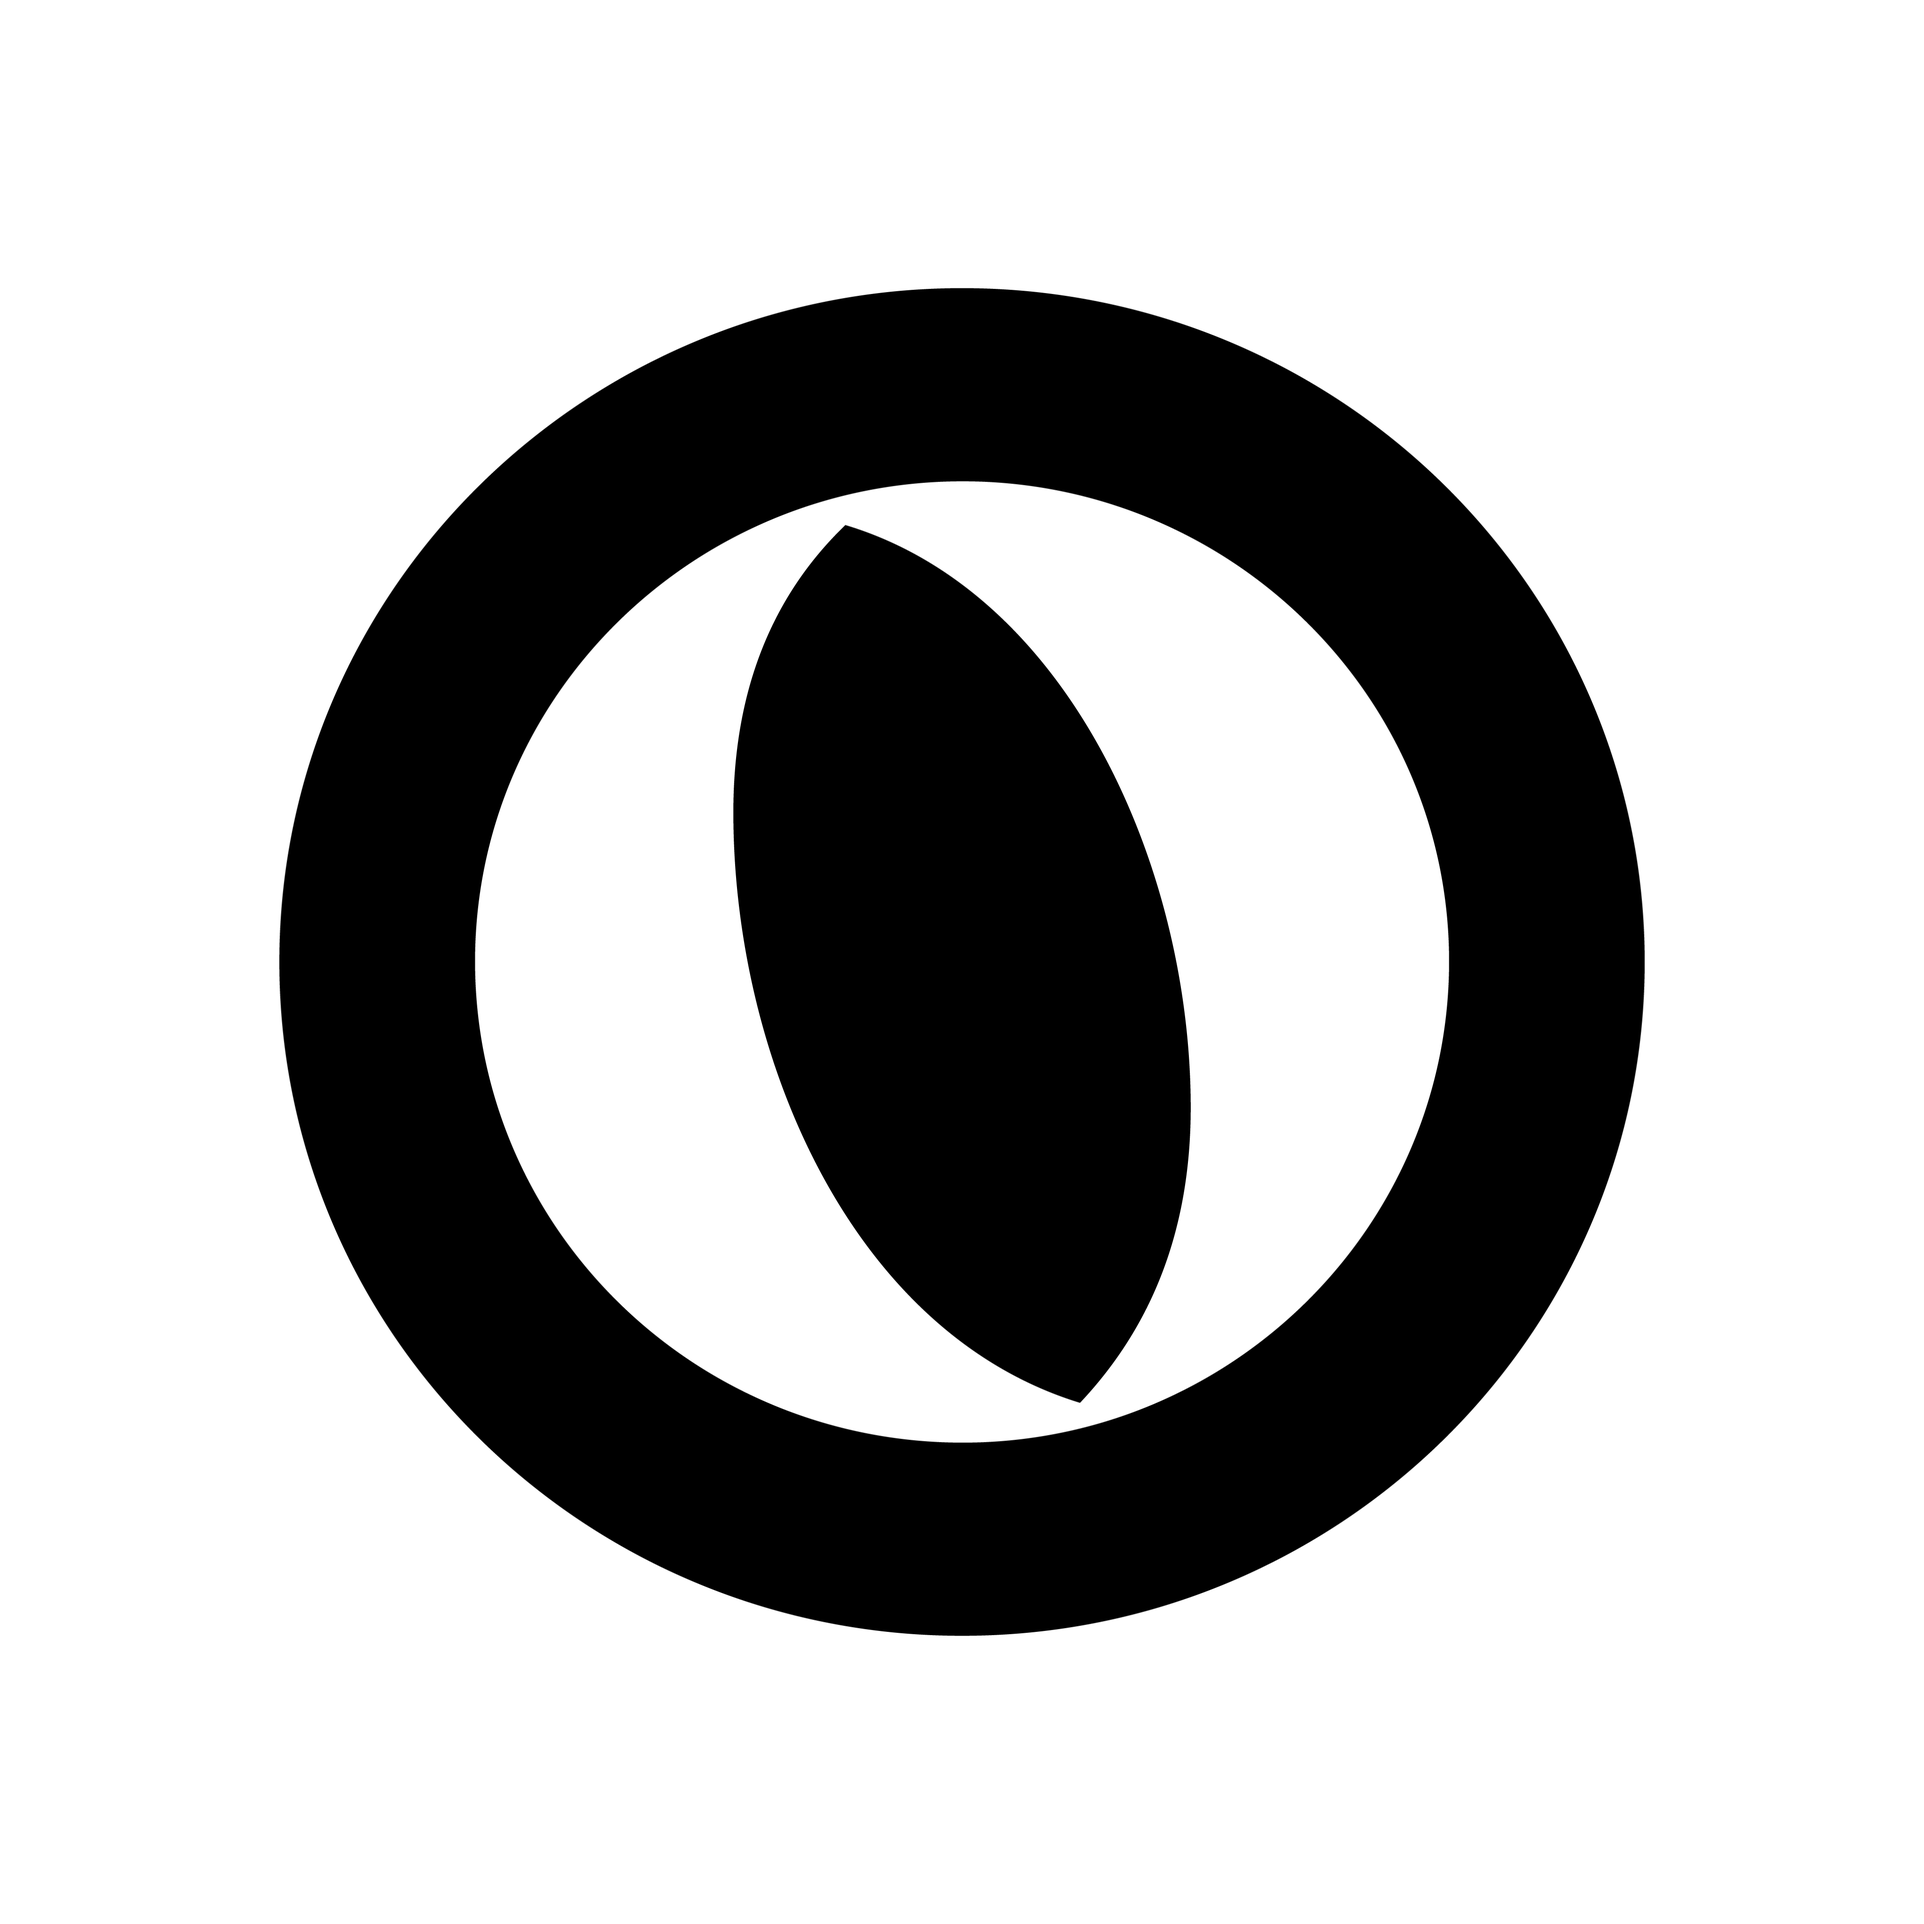
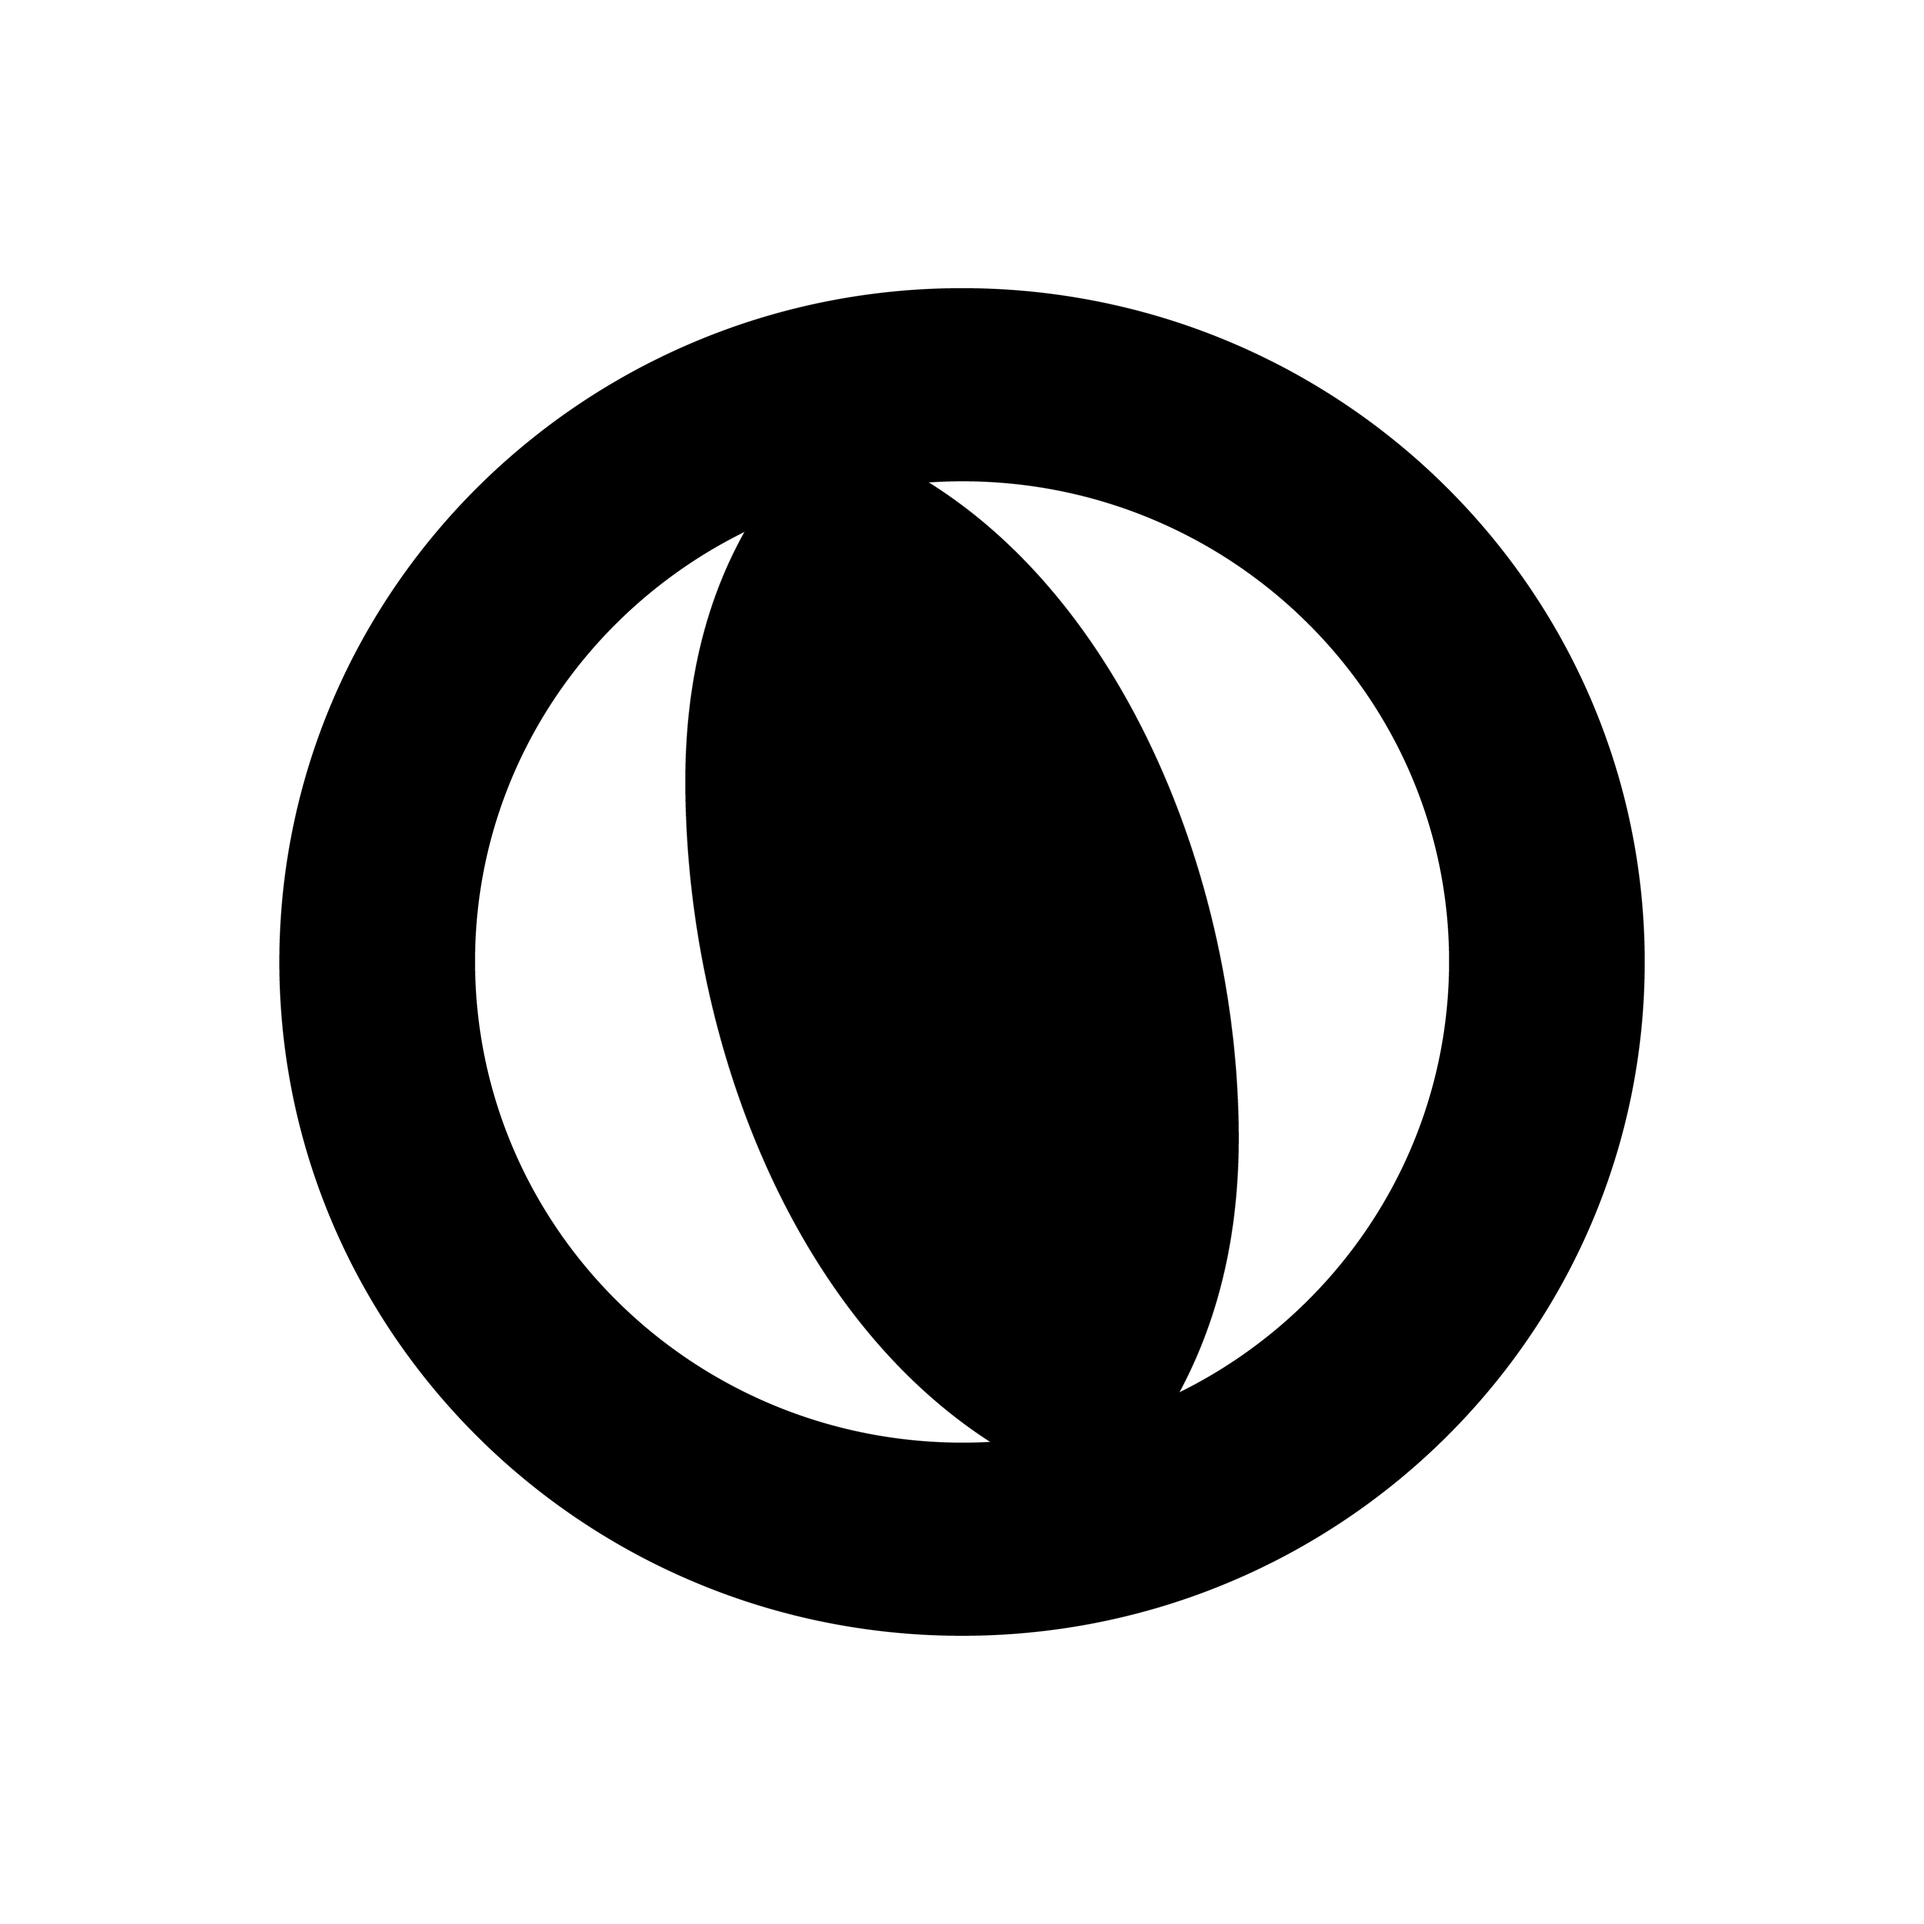
10 binaries uploaded

Changed region(s): [[0.3438, 0.25, 0.6562, 0.75]]

diff --git a/src/app/app.component.ts b/src/app/app.component.ts
@@ -11,12 +11,16 @@ export class AppComponent  {
   Mousex: number = 0; 
   MouseY: number = 0;
   photo_id: number = 0;
-
+  blink_id: number = 76
   imageSrc: string = 'https://raw.githubusercontent.com/JeffVince/angular-ivy-jkpus9/master/src/assets/images/eye_state_00000.png';
 
   imageSrcFront: string = "https://raw.githubusercontent.com/JeffVince/angular-ivy-jkpus9/master/src/assets/images/eye_state_000";
 
   imageSrcEnd: string = ".png"
+
+  blinkSrc: string = "https://raw.githubusercontent.com/JeffVince/angular-ivy-jkpus9/master/src/assets/blink/Blink_00076.png"
+
+  blinkSrcFront: string = "https://raw.githubusercontent.com/JeffVince/angular-ivy-jkpus9/master/src/assets/blink/Blink_000"
 
   showEyeTracking: boolean = true;
 
@@ -29,9 +33,15 @@ export class AppComponent  {
     }
   }
 
-  mouseClicked(event: MouseEvent) {
+  async mouseClicked(event: MouseEvent) {
     this.showEyeTracking = !this.showEyeTracking;
-    console.log("test");
+    for (let i = 76; i < 86; i++)  {
+      this.blinkSrc = this.blinkSrcFront + String(i) + this.imageSrcEnd;
+      await new Promise(resolve => setTimeout(resolve, 5));
+      console.log(this.blinkSrc);
+    }
+    this.showEyeTracking = !this.showEyeTracking;
+
   }
 
 

diff --git a/src/app/app.component.html b/src/app/app.component.html
@@ -4,6 +4,7 @@
 <div class="testspace" (mousemove)="mouseMoved($event)" (click)="mouseClicked($event)">
   <img [src]="imageSrc" width="100" height="100" *ngIf="showEyeTracking"> 
  
- 
+  <img [src]="blinkSrc" width="100" height="100" *ngIf="!showEyeTracking"> 
+
 
 </div>
